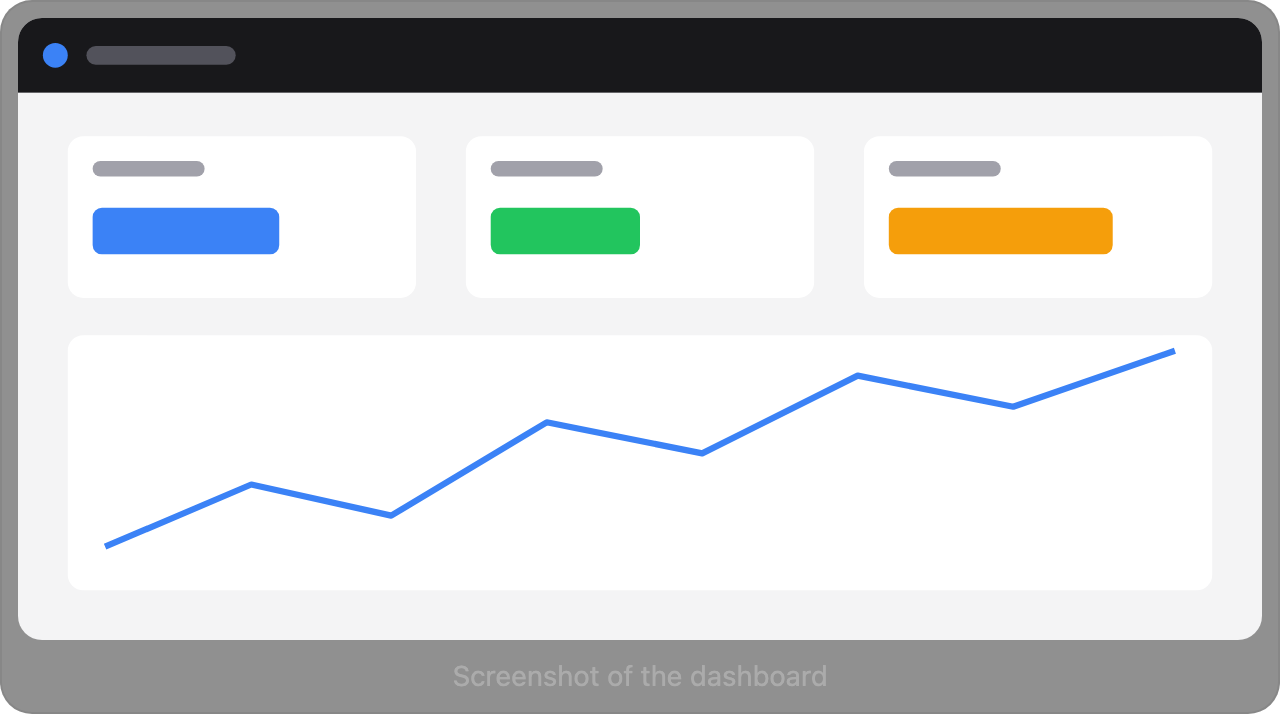
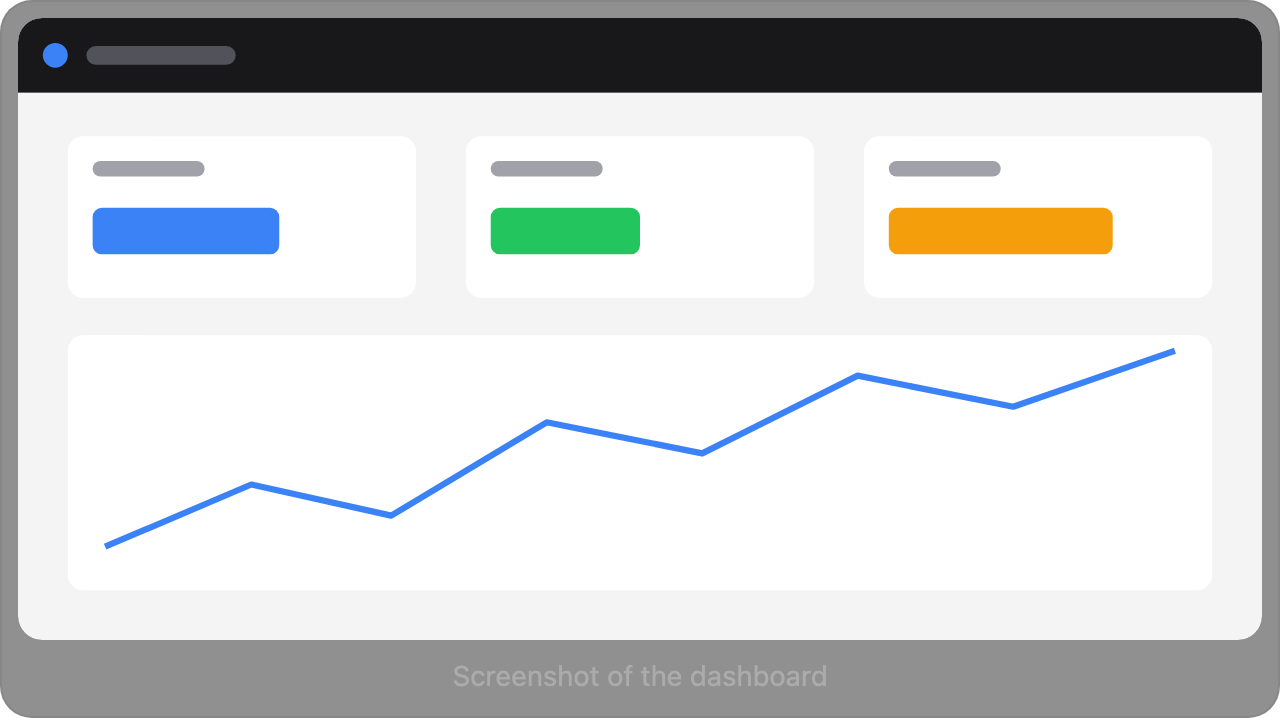
Fix demo missing Tailwind classes used only inside components
demo/src/components is a gitignored copy, and Tailwind skips ignored files
when scanning, so classes that appear only in a component (for example the
Frame image rules) were never generated. Register the folder explicitly and
regenerate the Frame previews that were affected.

Claude-Session: https://claude.ai/code/session_0121kxNFBZadoimDmhJeGX2b

diff --git a/demo/src/app/global.css b/demo/src/app/global.css
@@ -2,4 +2,6 @@
 @import 'fumadocs-ui/css/neutral.css';
 @import 'fumadocs-ui/css/preset.css';
 @source '../**/*.{ts,tsx}';
+/* src/components is a gitignored copy (see scripts/sync-components.mjs); Tailwind skips ignored files unless the folder is registered on its own. */
+@source '../components';
 @source '../../content/**/*.mdx';
